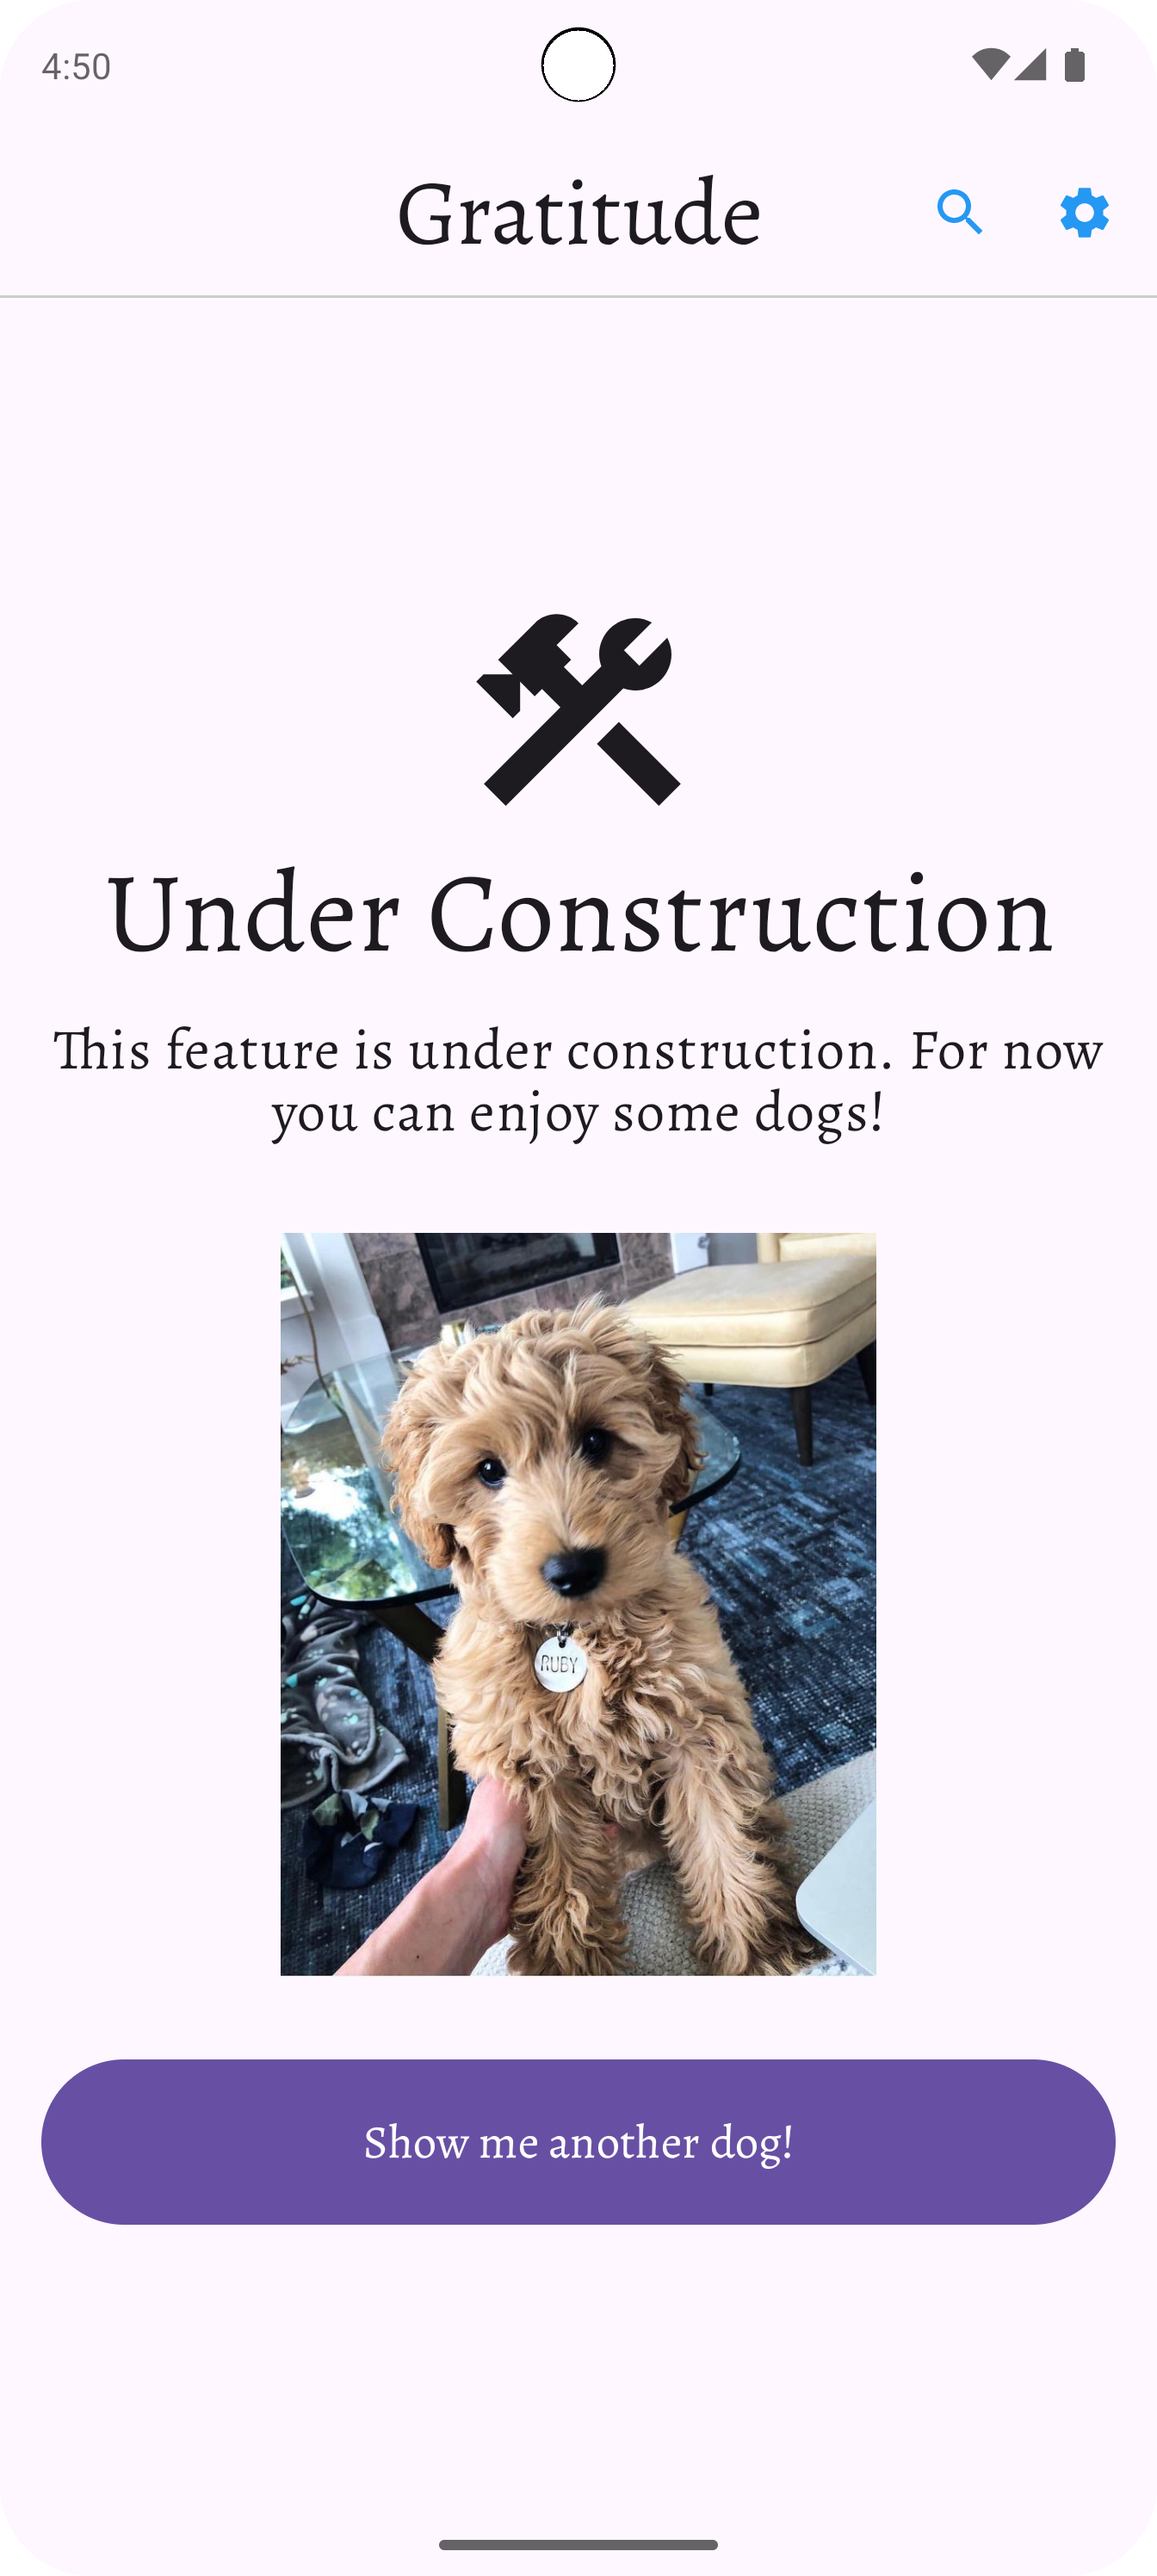
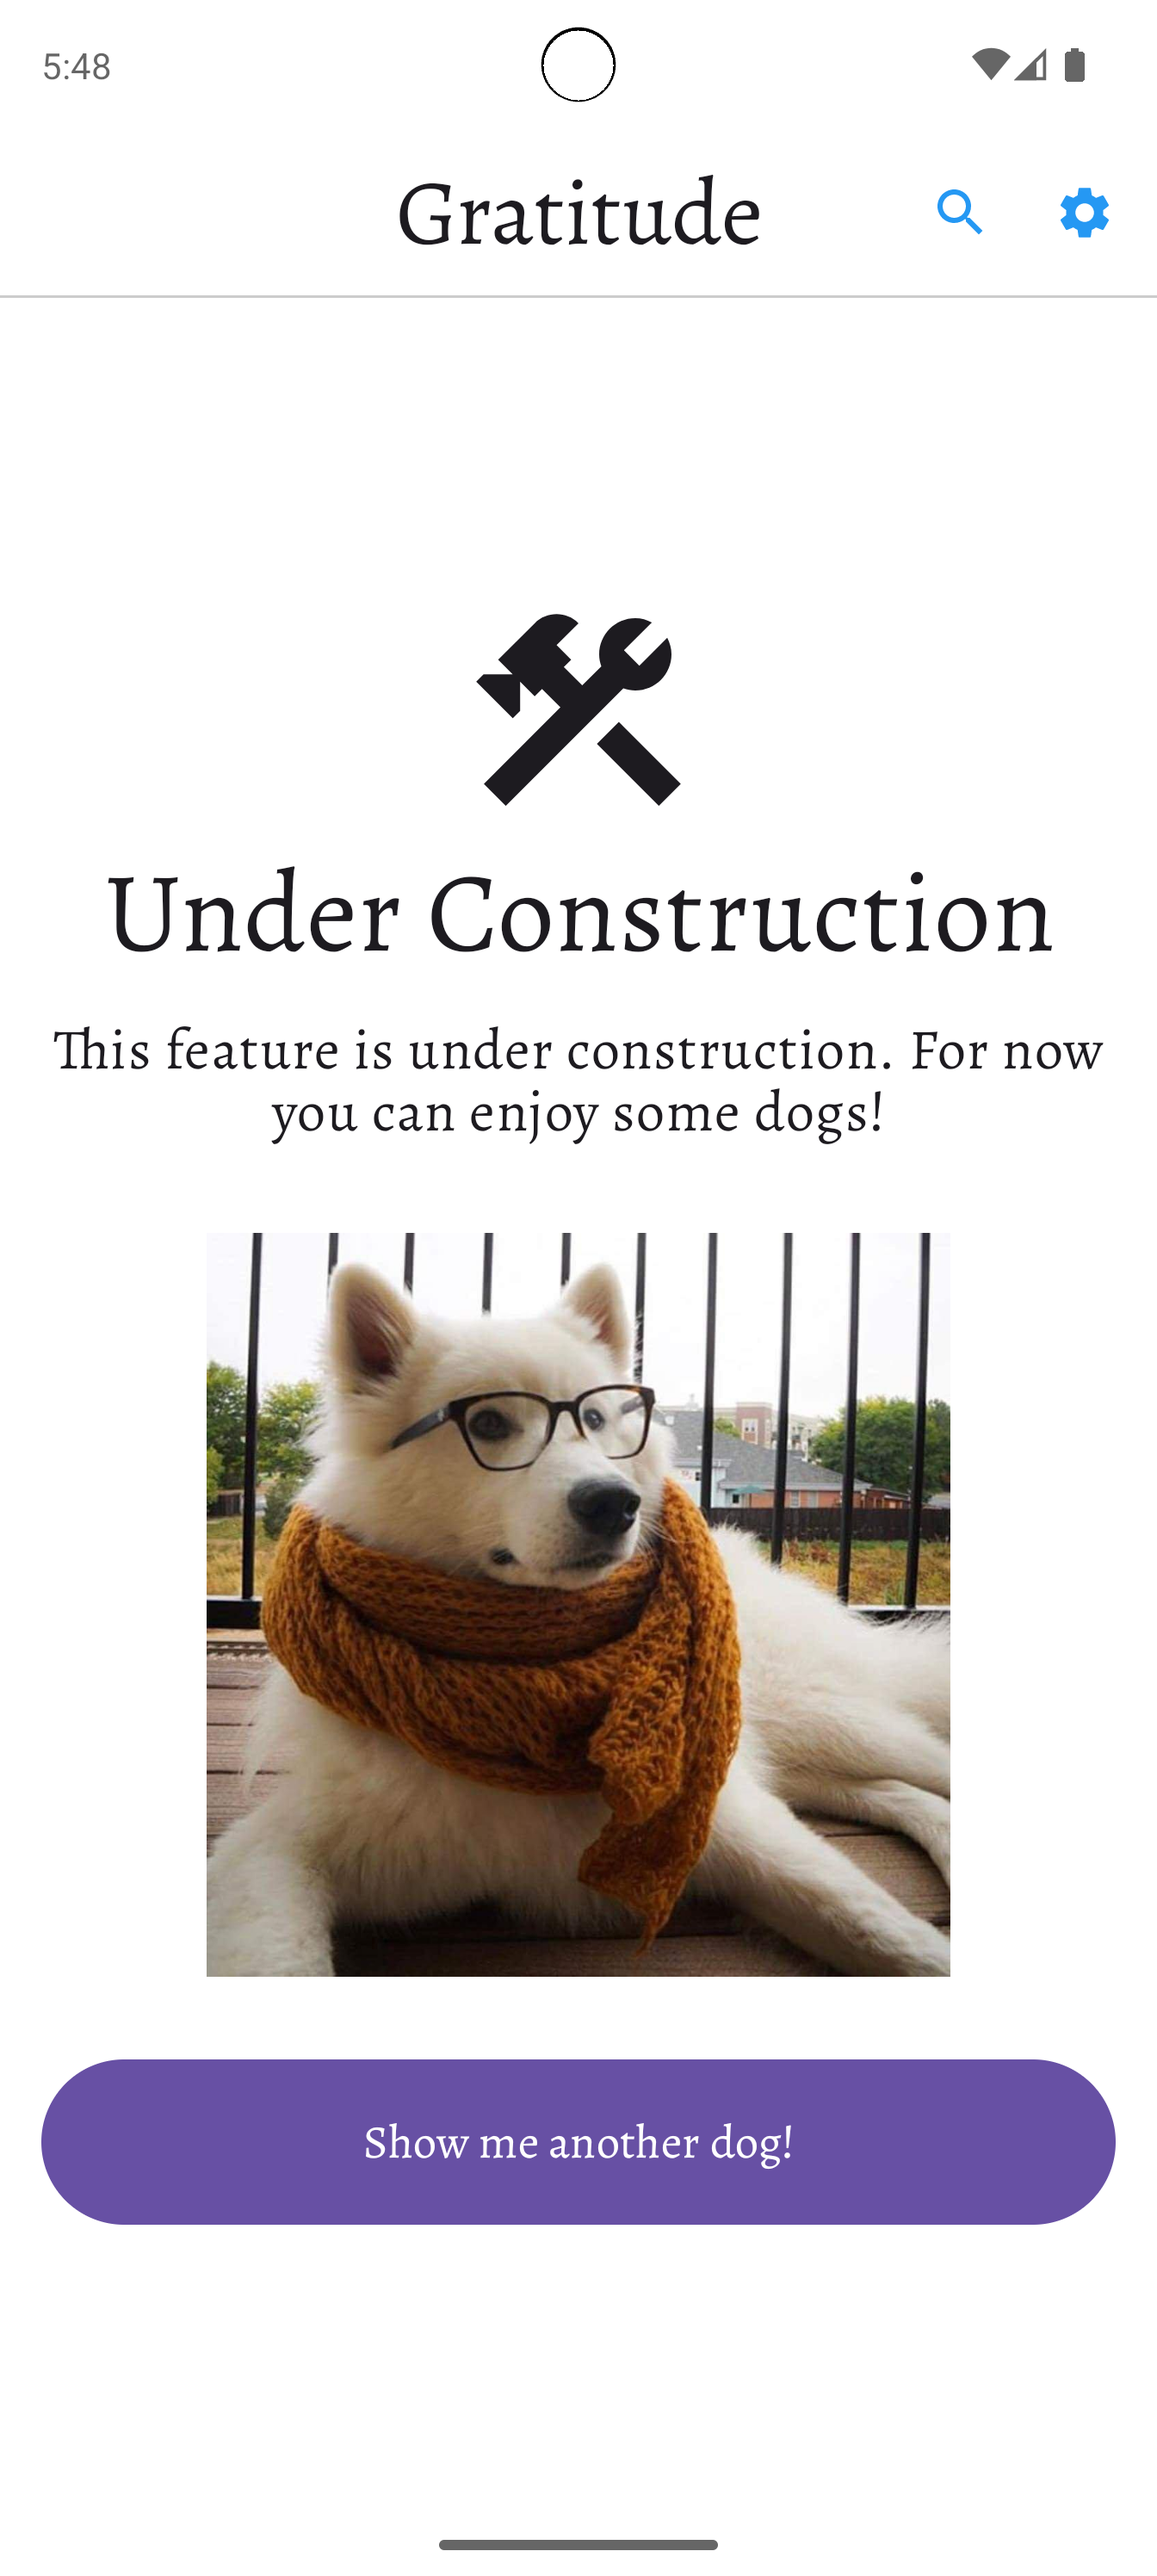
Update screenshots (#192)
* Set background for content to white
* Updated screenshots

Changed region(s): [[0.1562, 0.4662, 0.8438, 0.7771], [0.0625, 0.0, 0.0938, 0.0311]]

diff --git a/app/src/main/java/com/jamiescode/showcase/presentation/MainActivity.kt b/app/src/main/java/com/jamiescode/showcase/presentation/MainActivity.kt
@@ -11,7 +11,6 @@ import androidx.compose.foundation.layout.Box
 import androidx.compose.foundation.layout.Column
 import androidx.compose.foundation.layout.padding
 import androidx.compose.material3.HorizontalDivider
-import androidx.compose.material3.MaterialTheme
 import androidx.compose.material3.Scaffold
 import androidx.compose.runtime.collectAsState
 import androidx.compose.ui.Modifier
@@ -23,6 +22,7 @@ import androidx.navigation.compose.rememberNavController
 import com.jamiescode.showcase.navigation.AppNavigator
 import com.jamiescode.showcase.navigation.Destinations
 import com.jamiescode.showcase.presentation.compose.customTopAppBar
+import com.jamiescode.showcase.theme.showcaseTheme
 import dagger.hilt.android.AndroidEntryPoint
 import javax.inject.Inject
 
@@ -45,7 +45,7 @@ class MainActivity : AppCompatActivity() {
                     navController.navigate(destination.route)
                 }
             }
-            MaterialTheme {
+            showcaseTheme {
                 Scaffold(
                     topBar = {
                         Column {

diff --git a/theme/src/main/java/com/jamiescode/showcase/theme/Theme.kt b/theme/src/main/java/com/jamiescode/showcase/theme/Theme.kt
@@ -1,0 +1,30 @@
+package com.jamiescode.showcase.theme
+
+import androidx.compose.foundation.isSystemInDarkTheme
+import androidx.compose.material3.MaterialTheme
+import androidx.compose.material3.Typography
+import androidx.compose.material3.darkColorScheme
+import androidx.compose.material3.lightColorScheme
+import androidx.compose.runtime.Composable
+import androidx.compose.ui.graphics.Color
+
+private val lightThemeColors =
+    lightColorScheme(
+        background = Color.White,
+        surfaceContainer = Color.White,
+        surface = Color.White,
+    )
+
+private val darkThemeColors = darkColorScheme()
+
+private val typography = Typography()
+
+@Composable
+fun showcaseTheme(content: @Composable () -> Unit) {
+    val colorScheme = if (isSystemInDarkTheme()) darkThemeColors else lightThemeColors
+    MaterialTheme(
+        colorScheme = colorScheme,
+        typography = typography,
+        content = content,
+    )
+}
